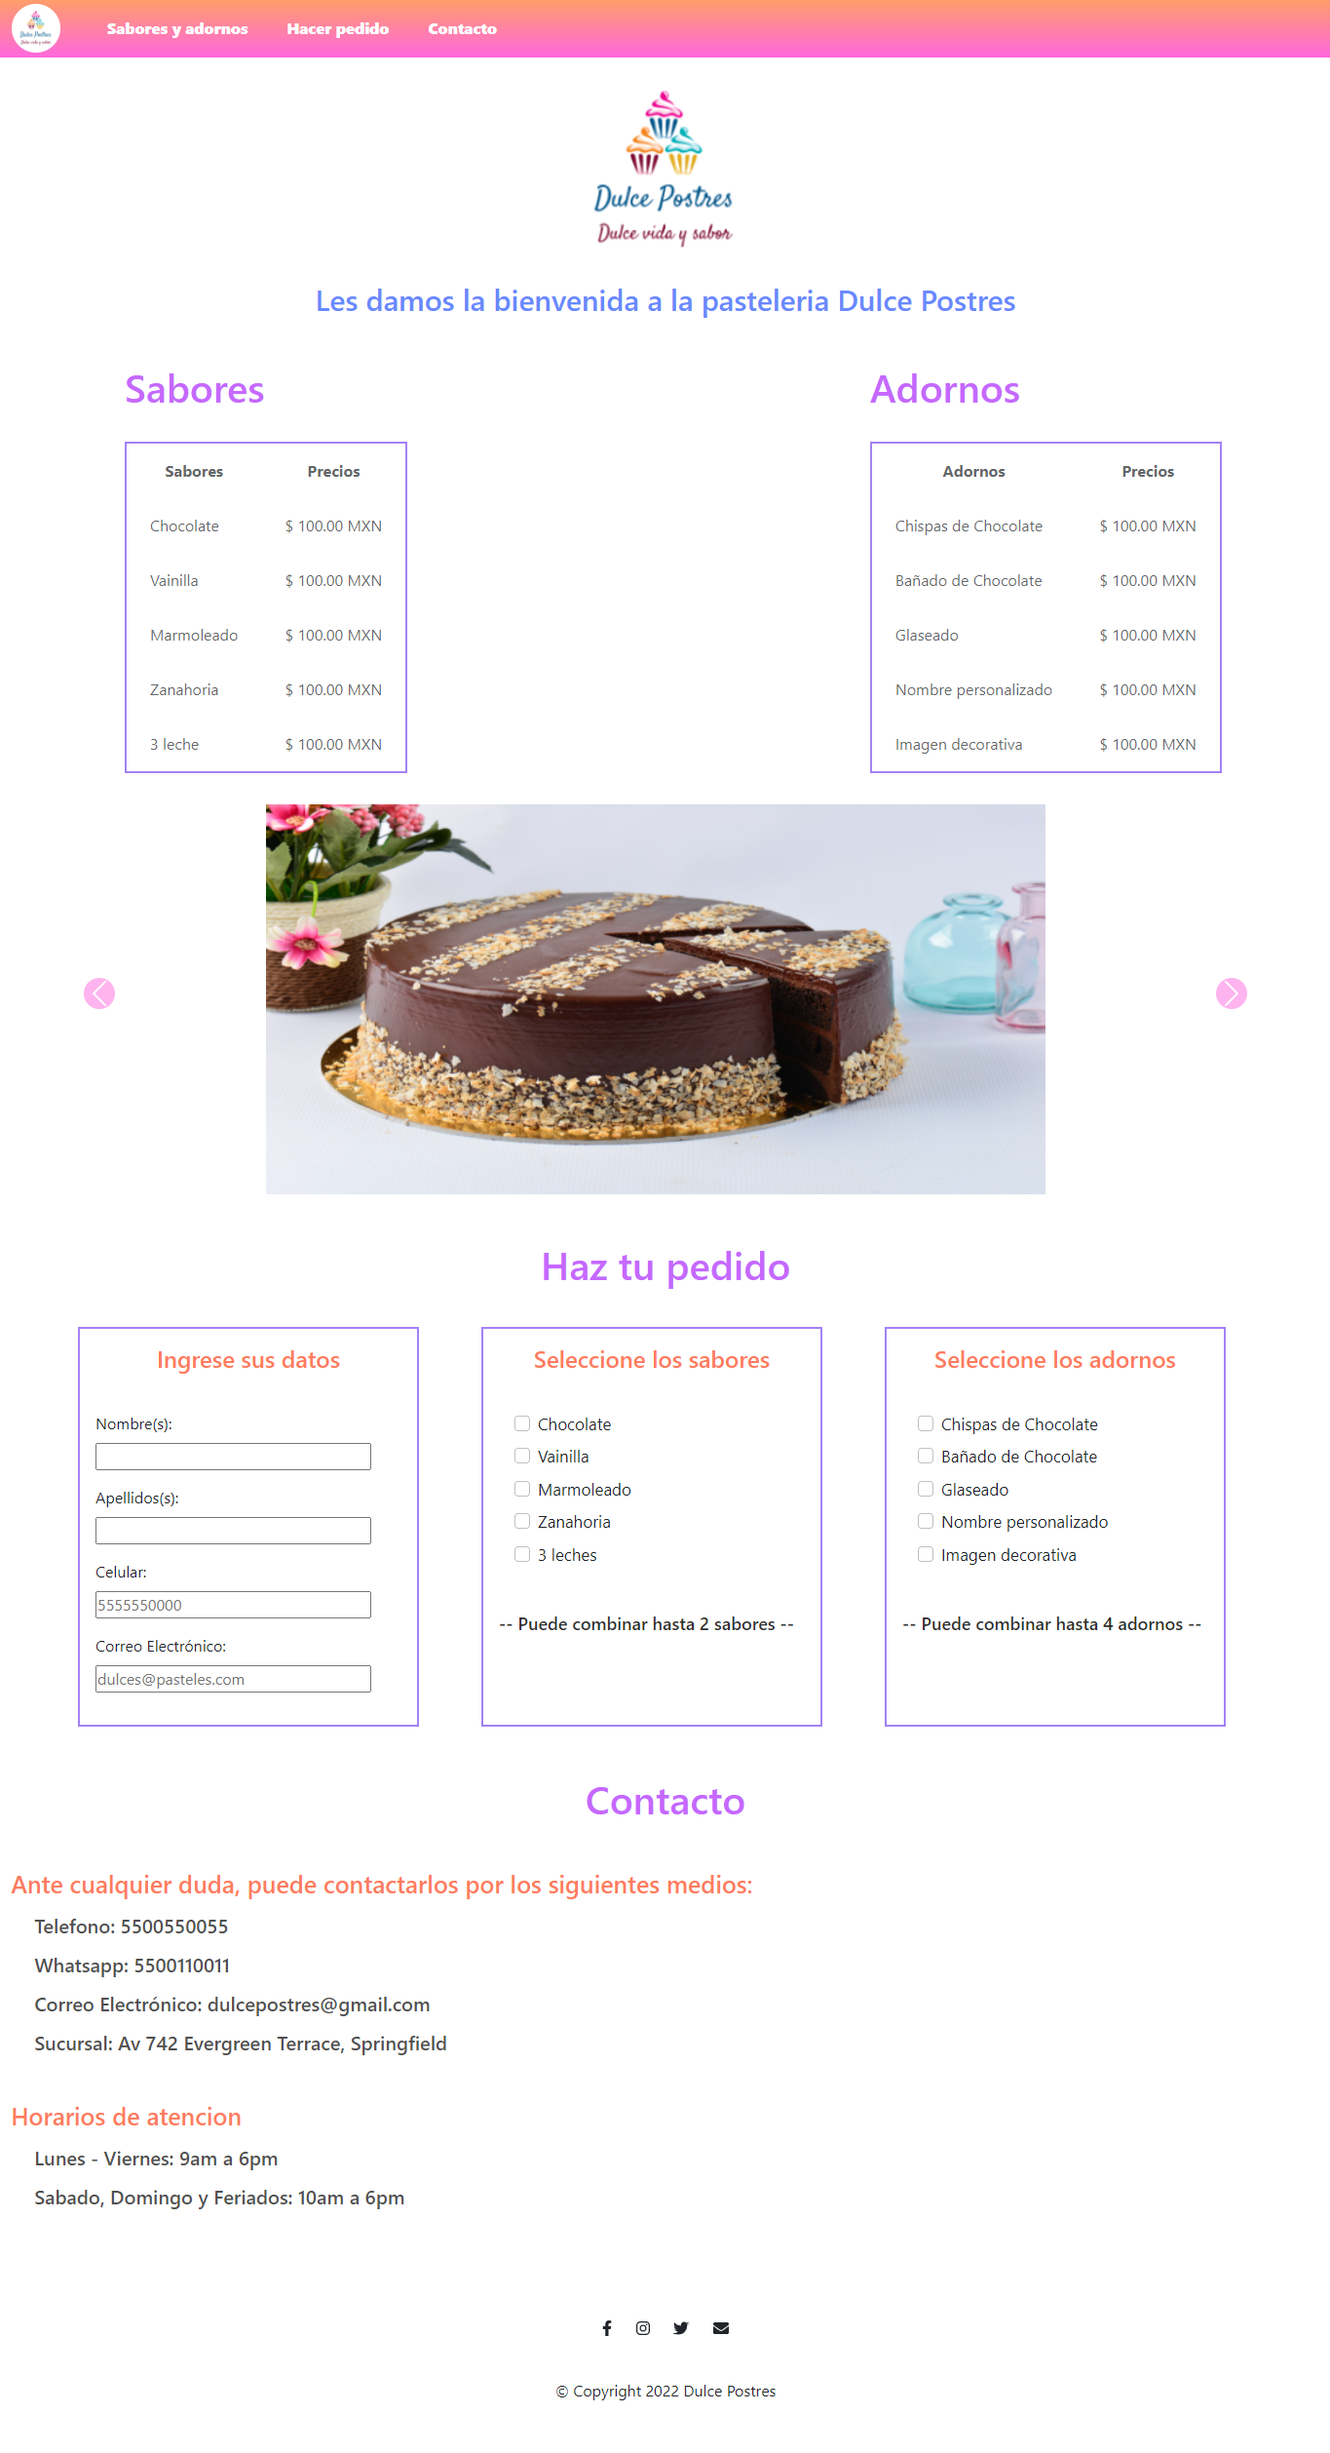
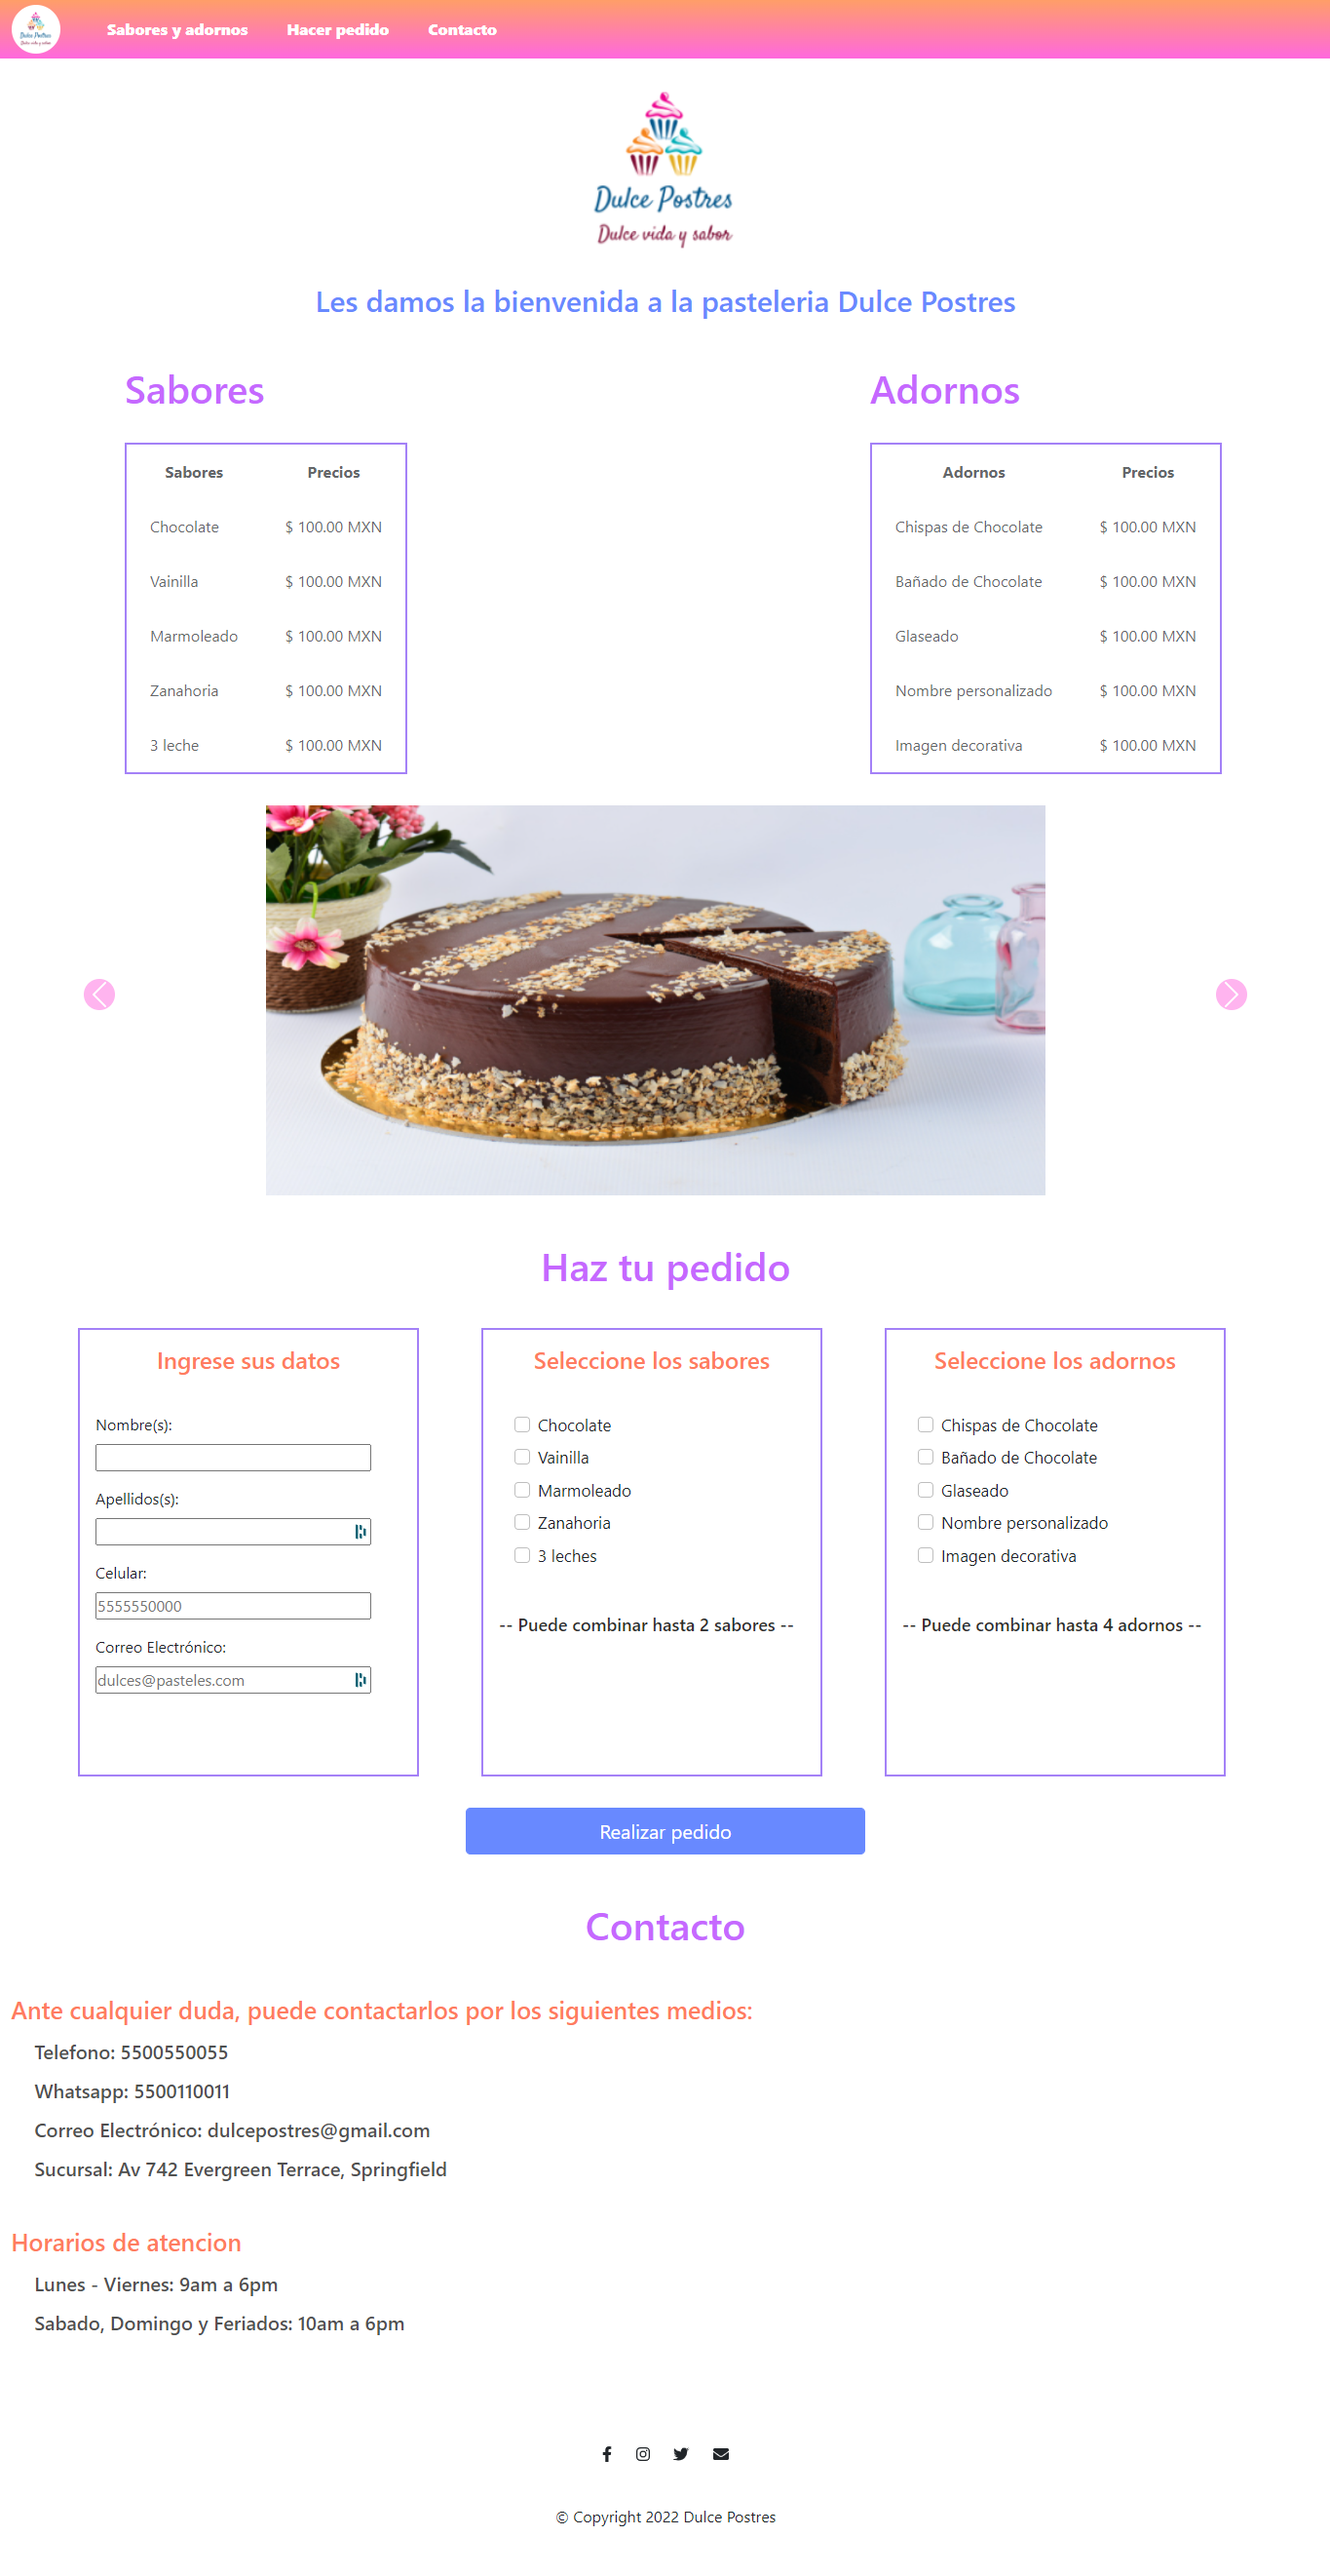
form button added

diff --git a/index.html b/index.html
@@ -13,35 +13,33 @@
     <title>Dulces Postres</title>
 </head>
 <body>
-    <!-- <header class="s-fixed"> -->
-        <section class="s-fixed navbar-section" id="navbars">
-            <nav class="navbar navbar-expand-lg navbar-dark">
-                <div class="container-fluid">
-                    <a href="#"><img class="logo-nav" src="./src/img/logopasteles.PNG" alt=""></a>
-                    <ul class="navbar-nav me-auto mb-2 mb-lg-0">
-                        <div class="n-left s-cross-center">
-                            <li class="nav-item niv">
-                                <div class="sabor-div">
-                                    <a id="sabor-btn" class="nav-link nbtn" href="#menu-section">Sabores y adornos</a>
-                                </div>
-                            </li>
-                            <li class="nav-item niv">
-                                <div class="pedidoo-div">
-                                    <a id="pedido-btn" class="nav-link" href="#pedido-section">Hacer pedido</a>
-                                </div>
-                            </li>
-                            <li class="nav-item niv">
-                                <div class="contacto-div">
-                                    <a id="contacto-btn" class="nav-link" href="#contacto-section">Contacto</a>
-                                </div>
-                            </li>
-                        </div>
-                    </ul>
-                    
-                </div>
-            </nav>
-        </section>
-    <!-- </header> -->
+    <section class="s-fixed navbar-section" id="navbars">
+        <nav class="navbar navbar-expand-lg navbar-dark">
+            <div class="container-fluid">
+                <a href="#"><img class="logo-nav" src="./src/img/logopasteles.PNG" alt=""></a>
+                <ul class="navbar-nav me-auto mb-2 mb-lg-0">
+                    <div class="n-left s-cross-center">
+                        <li class="nav-item niv">
+                            <div class="sabor-div">
+                                <a id="sabor-btn" class="nav-link nbtn" href="#menu-section">Sabores y adornos</a>
+                            </div>
+                        </li>
+                        <li class="nav-item niv">
+                            <div class="pedidoo-div">
+                                <a id="pedido-btn" class="nav-link" href="#pedido-section">Hacer pedido</a>
+                            </div>
+                        </li>
+                        <li class="nav-item niv">
+                            <div class="contacto-div">
+                                <a id="contacto-btn" class="nav-link" href="#contacto-section">Contacto</a>
+                            </div>
+                        </li>
+                    </div>
+                </ul>
+                
+            </div>
+        </nav>
+    </section>
     
     <section class="navbar-section" id="navbars">
         <nav class="navbar navbar-expand-lg navbar-dark">
@@ -184,27 +182,27 @@
                         <div class="inter-pdiv name-div">
                             <label for="">Nombre(s): </label>
                             <div class="datos-input">
-                                <input class="pedidos-input" type="text" name="name">
+                                <input class="pedidos-input" type="text" name="name" required>
                             </div>
                             
                         </div>
                         <div class="inter-pdiv lastname-div">
                             <label for="">Apellidos(s):</label>
                             <div class="datos-input">
-                                <input class="pedidos-input" type="text" name="lastname">
+                                <input class="pedidos-input" type="text" name="lastname" required>
                             </div>
                             
                         </div>
                         <div class="inter-pdiv cellphone-div">
                             <label for="">Celular:</label>
                             <div class="datos-input">
-                                <input class="pedidos-input" type="number" name="cellphone" maxlength="10" minlength="10" placeholder="5555550000">
+                                <input class="pedidos-input" type="number" name="cellphone" maxlength="10" minlength="10" placeholder="5555550000" required>
                             </div>
                         </div>
                         <div class="inter-pdiv email-div">
                             <label for="">Correo Electrónico: </label>
                             <div class="datos-input">
-                                <input class="pedidos-input" id="email-input" type="email" name="email" placeholder="dulces@pasteles.com">
+                                <input class="pedidos-input" id="email-input" type="email" name="email" placeholder="dulces@pasteles.com" required>
                             </div>
                         </div>
                     </div>
@@ -261,6 +259,8 @@
                     </div>
 
                 </div>
+                <button type="submit" id="btn-pedido" class="btn btn-lg btn-primary">Realizar pedido</button>
+
             </form>
         </div>
     </section> 

diff --git a/src/css/style.css b/src/css/style.css
@@ -142,7 +142,7 @@ td{
     margin: 2rem 3rem 2rem 1rem;
     border: 2px solid #a481f7;
     width: 350px;
-    height: 410px;
+    height: 460px;
     padding: 1rem;
 }
 
@@ -193,7 +193,20 @@ td{
     width: 90%;
 }
 
+#btn-pedido{
+    width: 30%;
+    margin-left: 35%;
+    margin-bottom: 2rem;
+    /* background: linear-gradient(to bottom right, #6889FF, #C668FF); */
+    background-color: #6889FF;
+    border-color: #6889FF;
+    /* border: linear-gradient(to bottom right, #6889FF, #C668FF); */
+}
+
 /*  ---Contacto section---    */
+#contacto-section{
+    margin-top: 11rem;
+}
 .contacto-h2{
     margin-top: 3rem;
     margin-left: 0.7rem;
